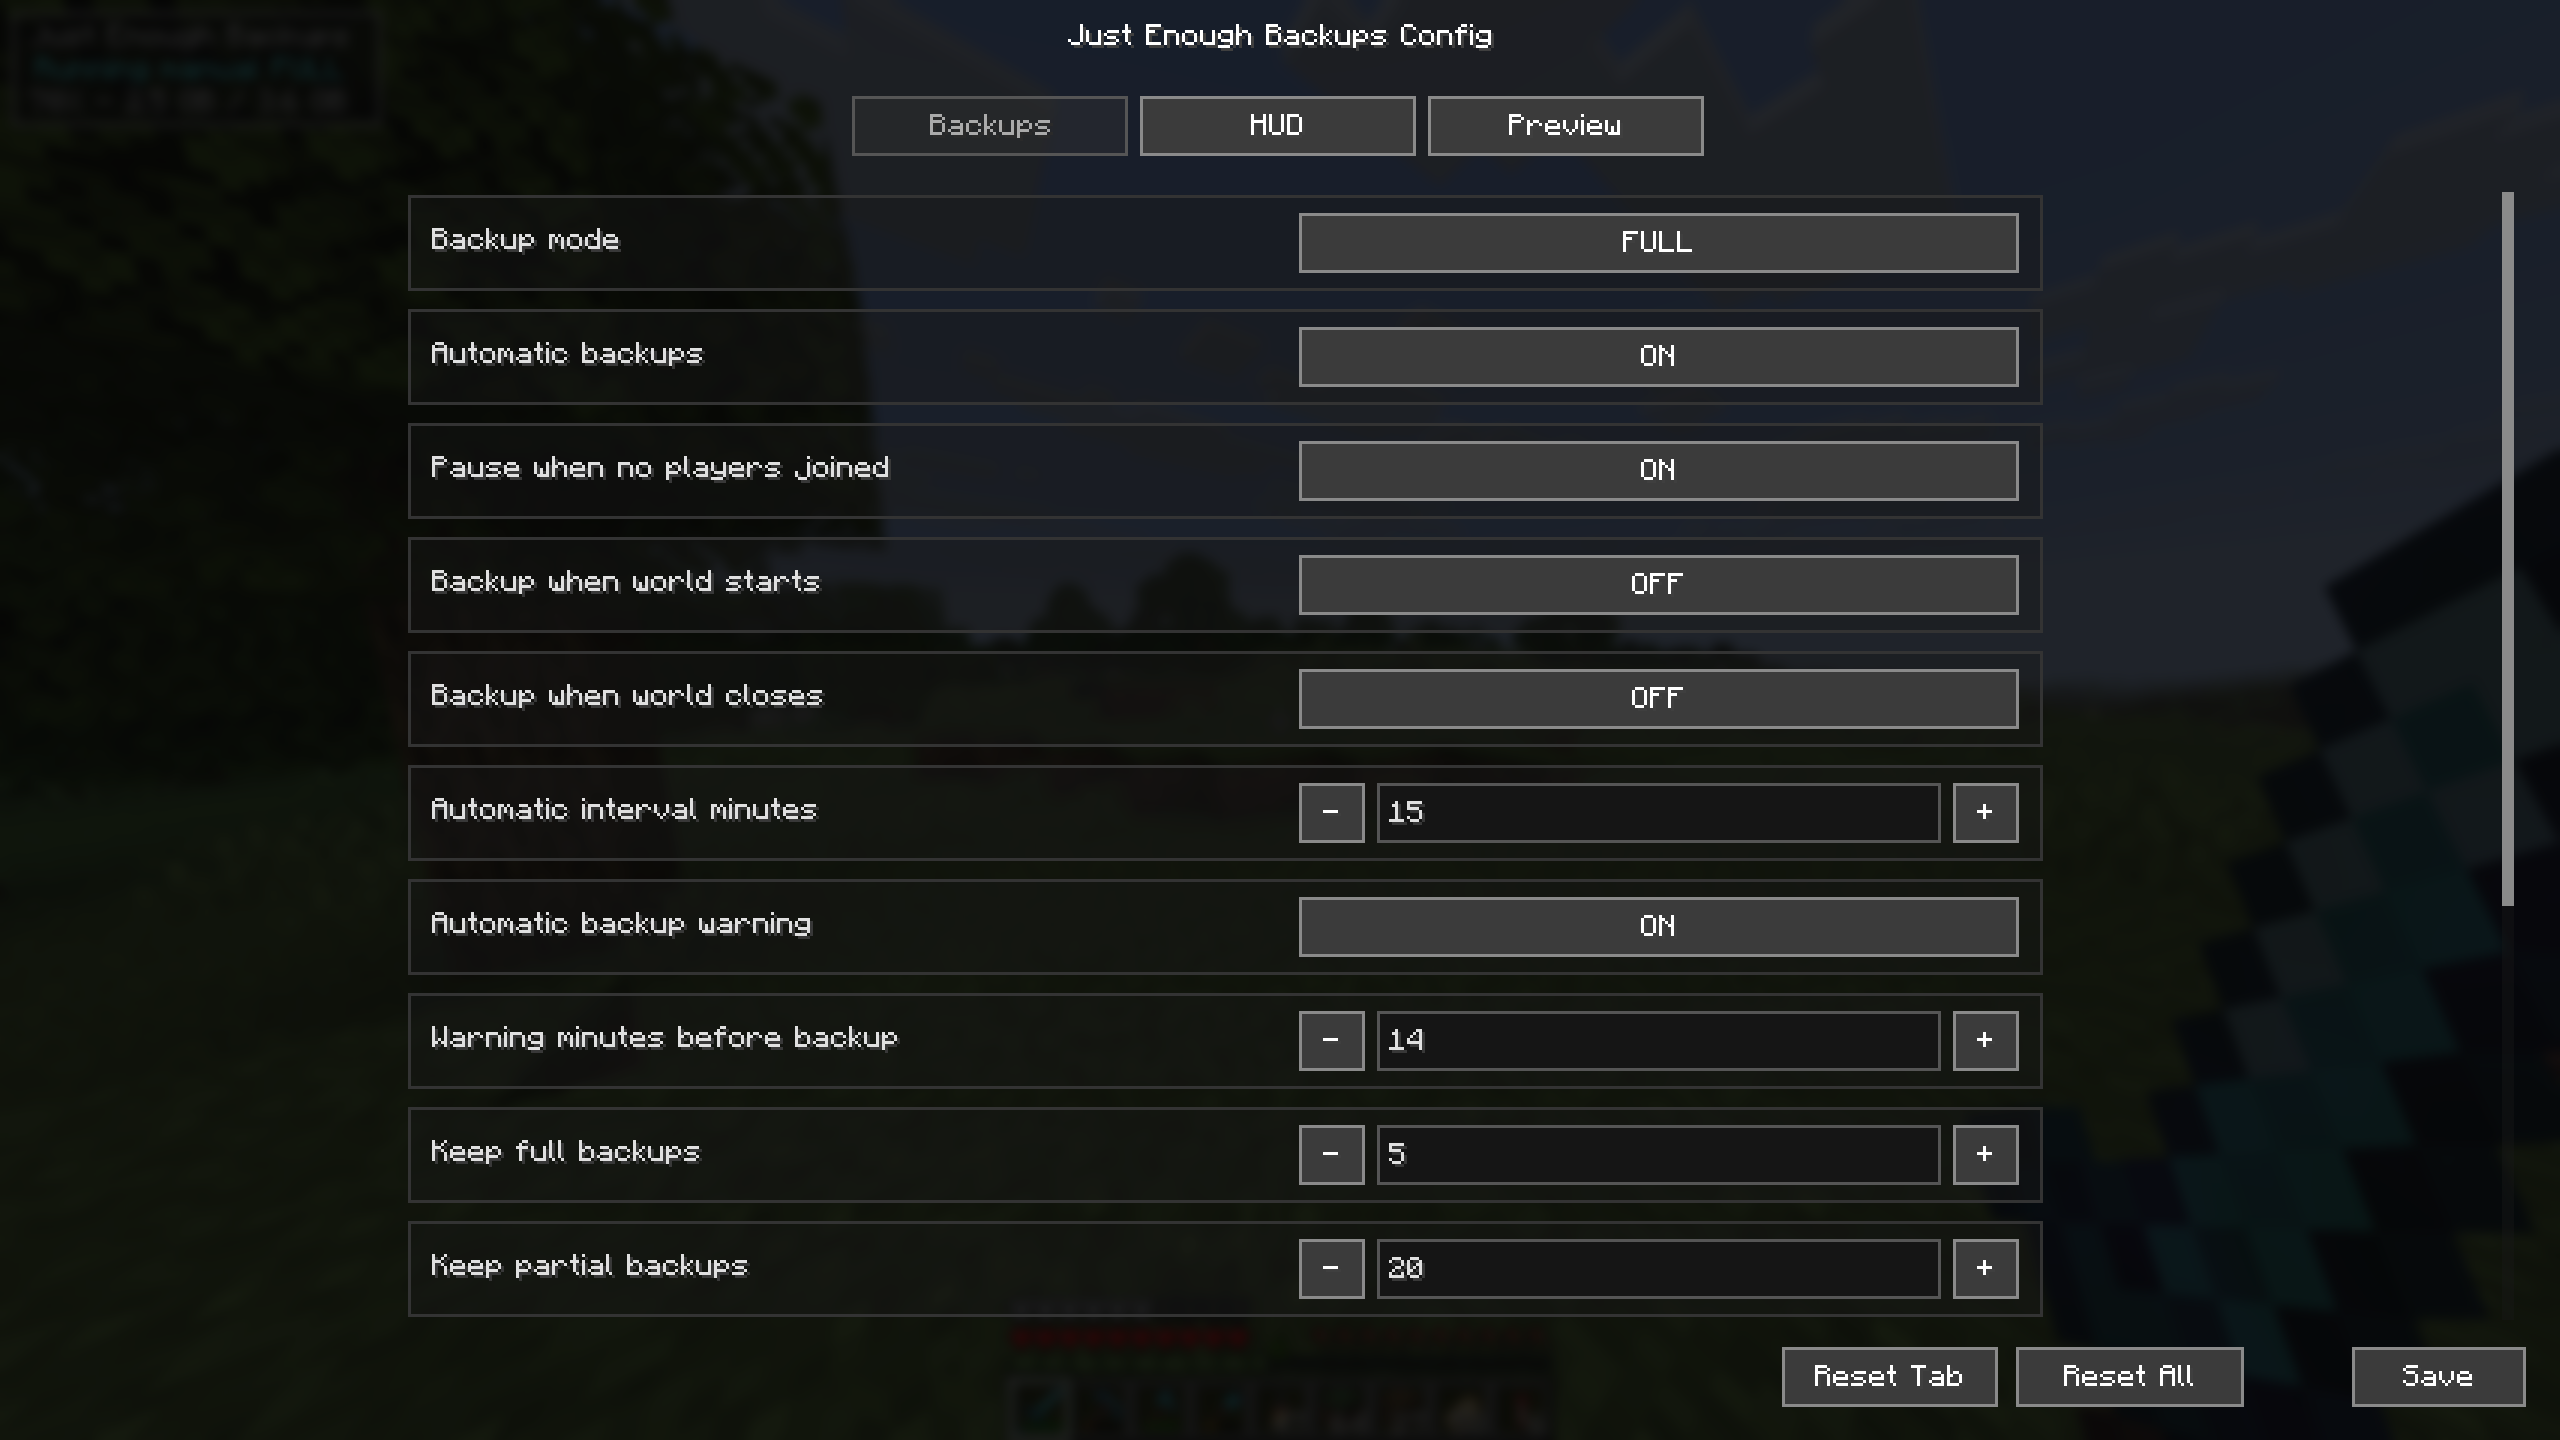
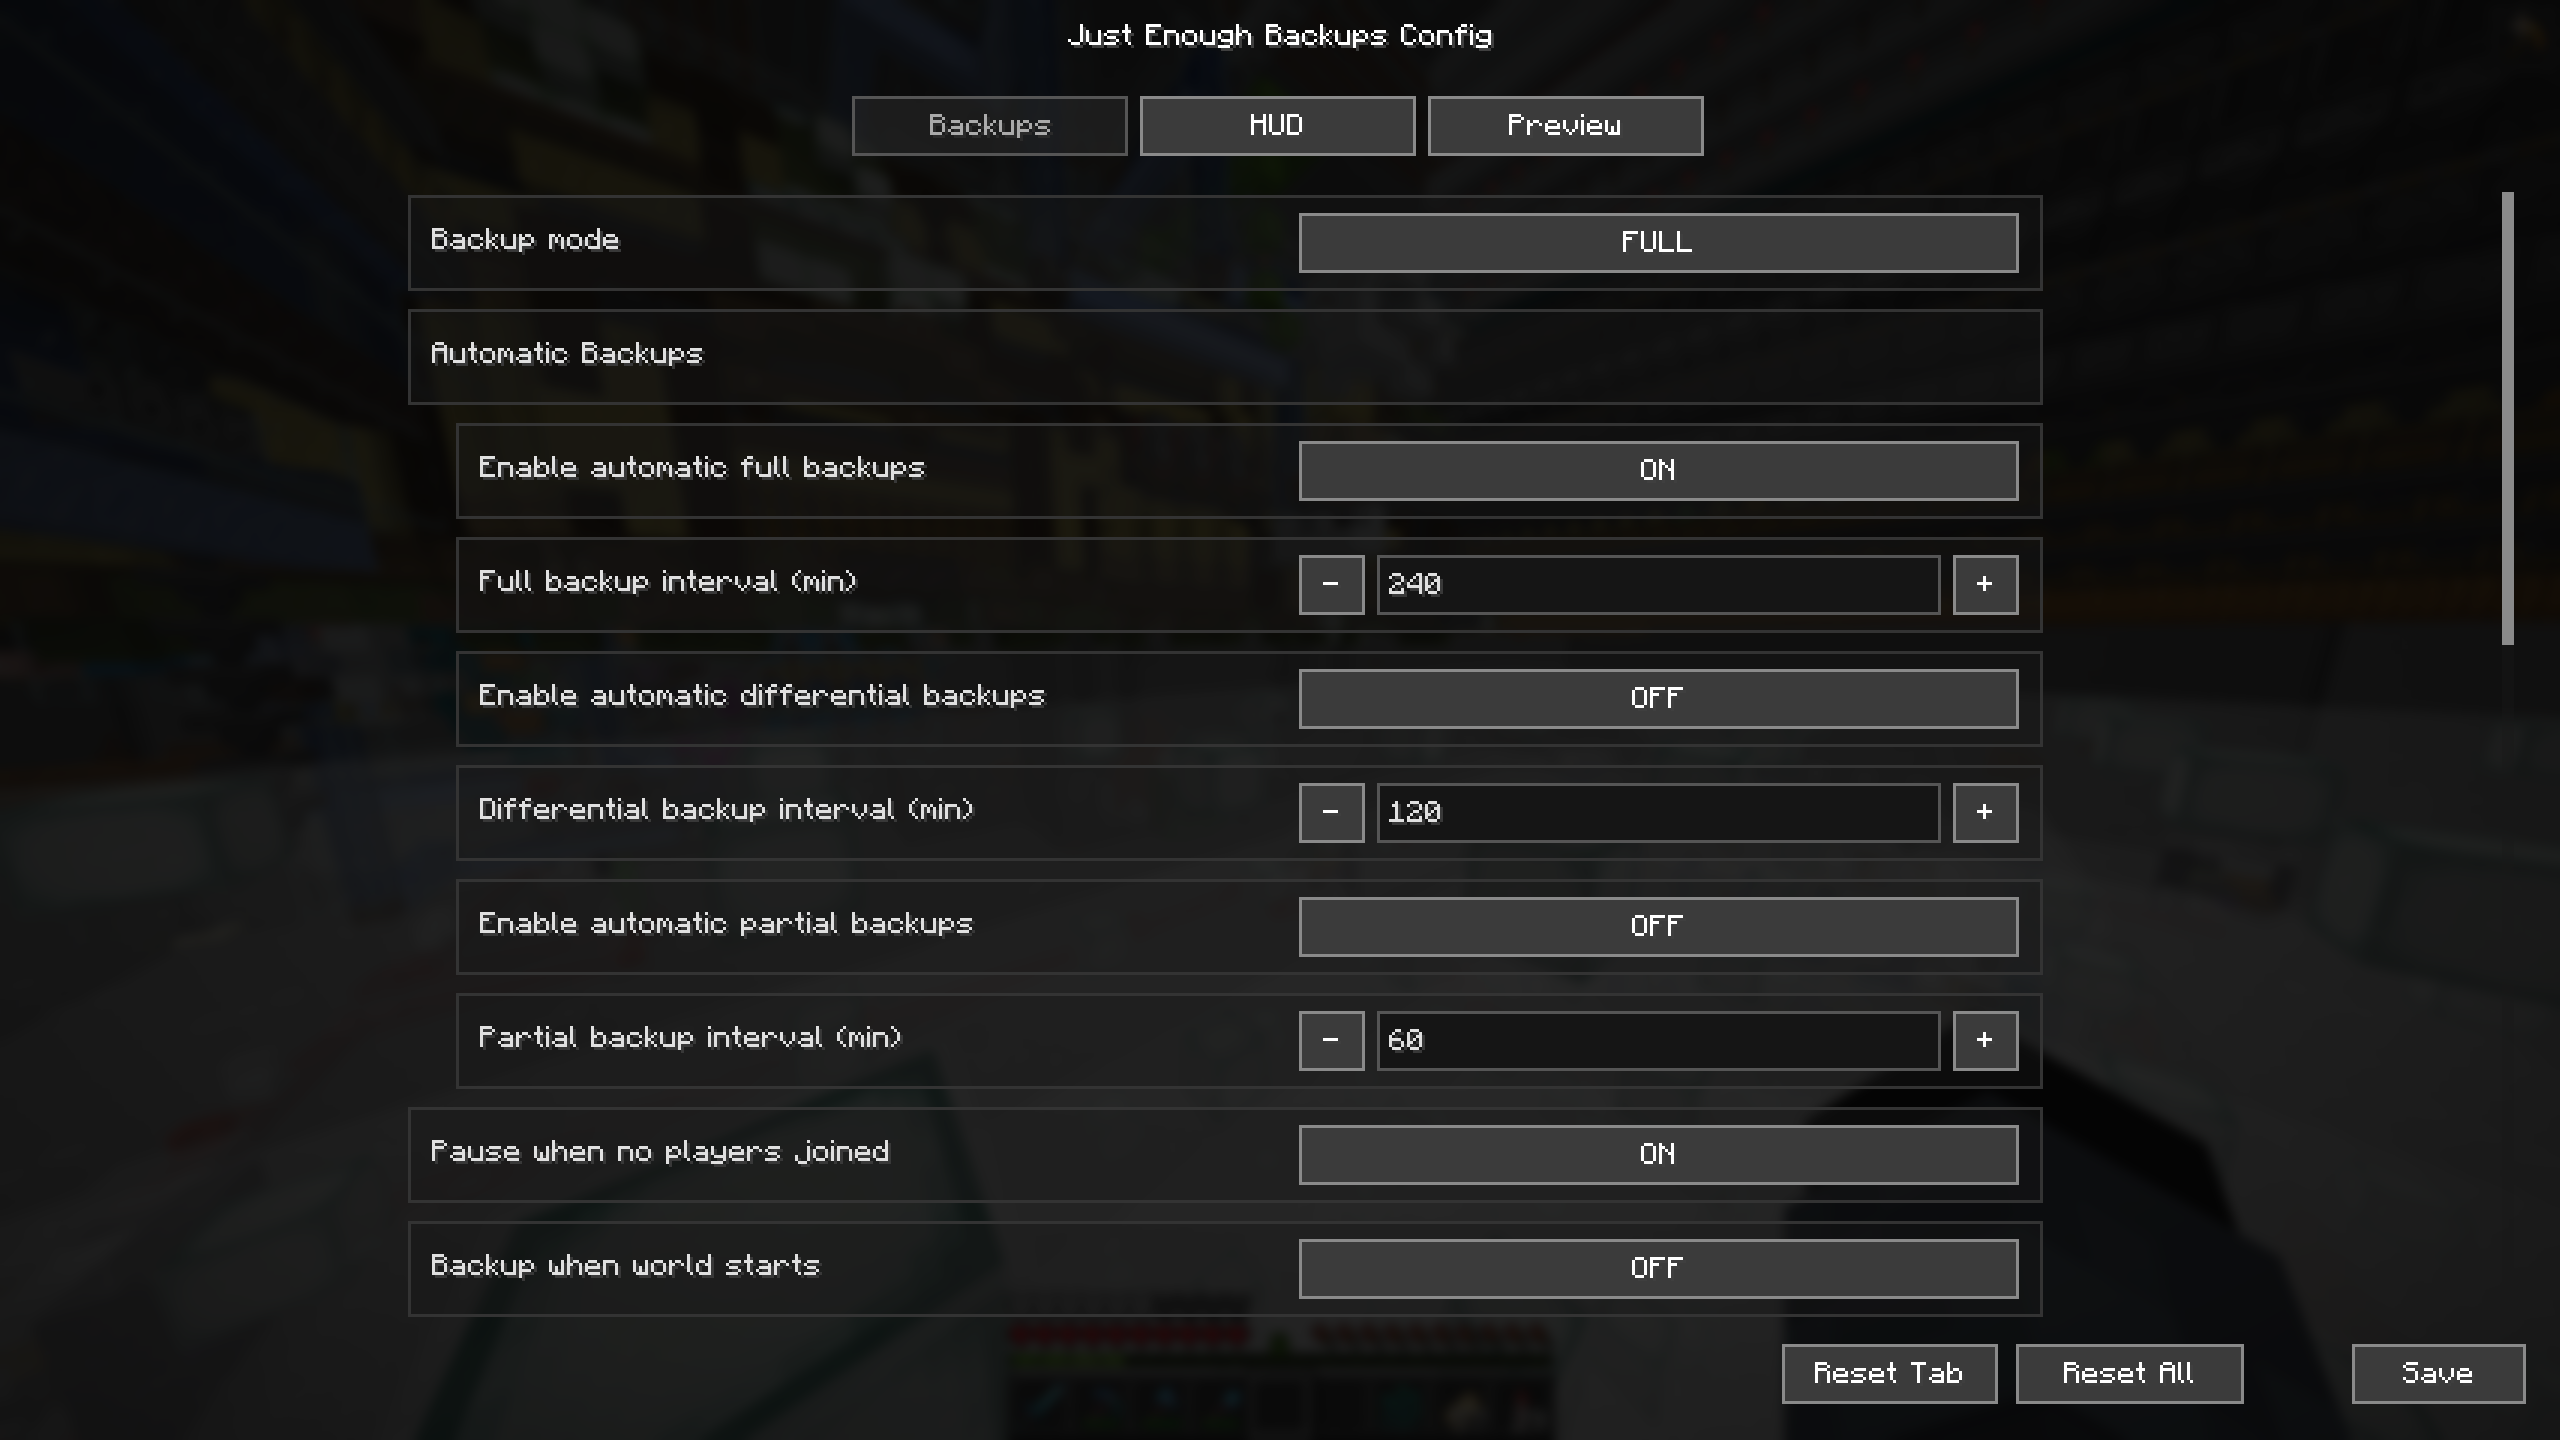
prepared for new version release

diff --git a/README.md b/README.md
@@ -48,10 +48,10 @@ Dependencies between backups are tracked. Retention and delete operations respec
 
 ### Automatic backups
 
-Automatic backups are driven by the scheduler and can be configured to:
+Automatic backups are driven by per-type schedulers (`FULL`, `DIFFERENTIAL`, `PARTIAL`) and can be configured to:
 
-- run every `X` minutes (60 by default)
-- send one optional public warning before an automatic backup starts
+- run independently based on configured intervals for each backup type
+- send optional public warning before an automatic backup starts
 - pause when no players have been online since the last backup
 - run on server start
 - run on server stop
@@ -133,6 +133,7 @@ Notes:
 - `<name>` is optional and becomes the real `.zip` file name after sanitization.
 - `<backup>` is the visible backup name, with or without the `.zip` suffix. Tab completion suggests the visible name.
 - restore is prepared asynchronously and then the server shuts down so the restore can be applied safely on the next startup.
+- `/jeb next` displays a multi-schedule summary showing remaining times and exact execution timestamps for all configured backup types, sorted by proximity.
 - command access follows the configured permission level.
 
 ## Default keybindings
